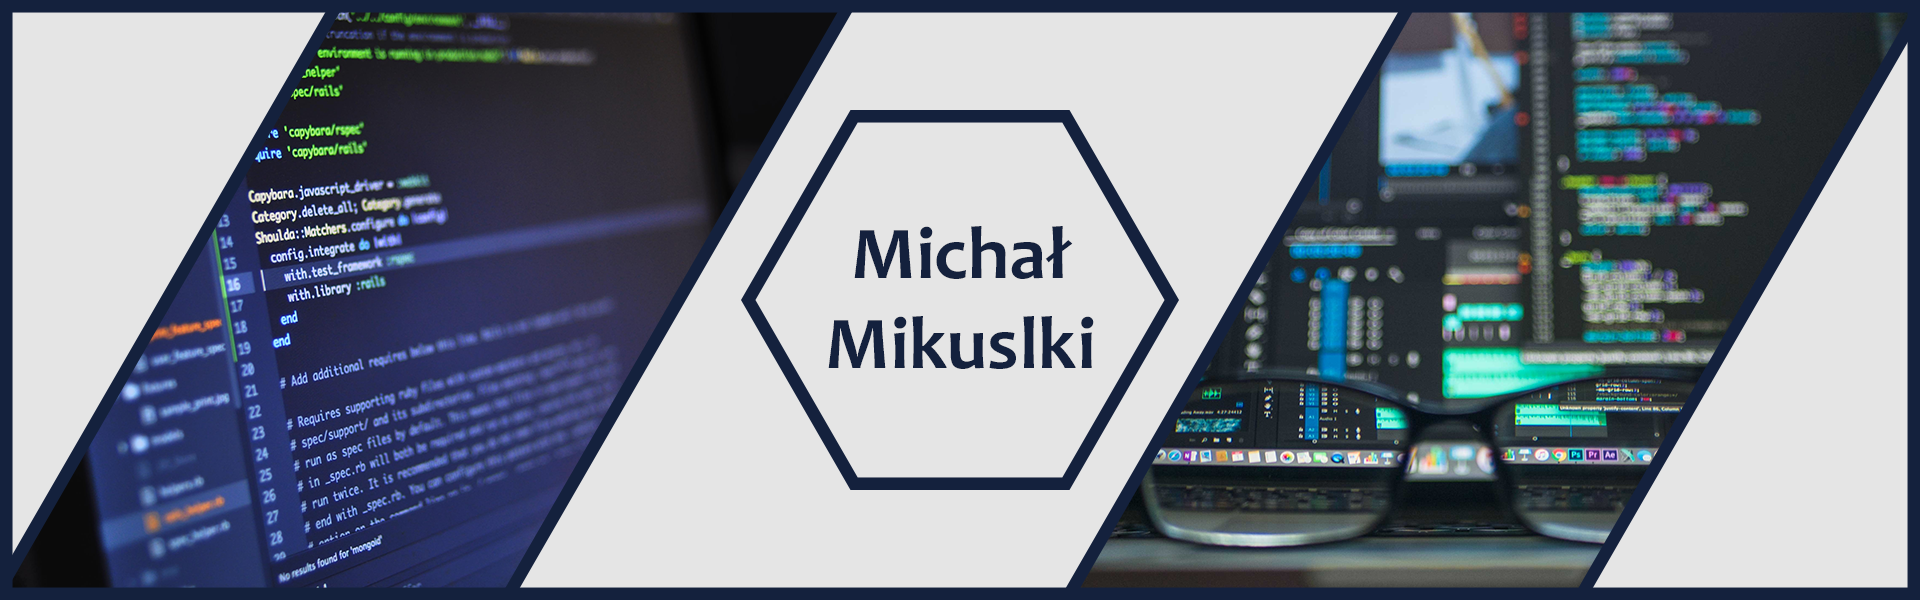
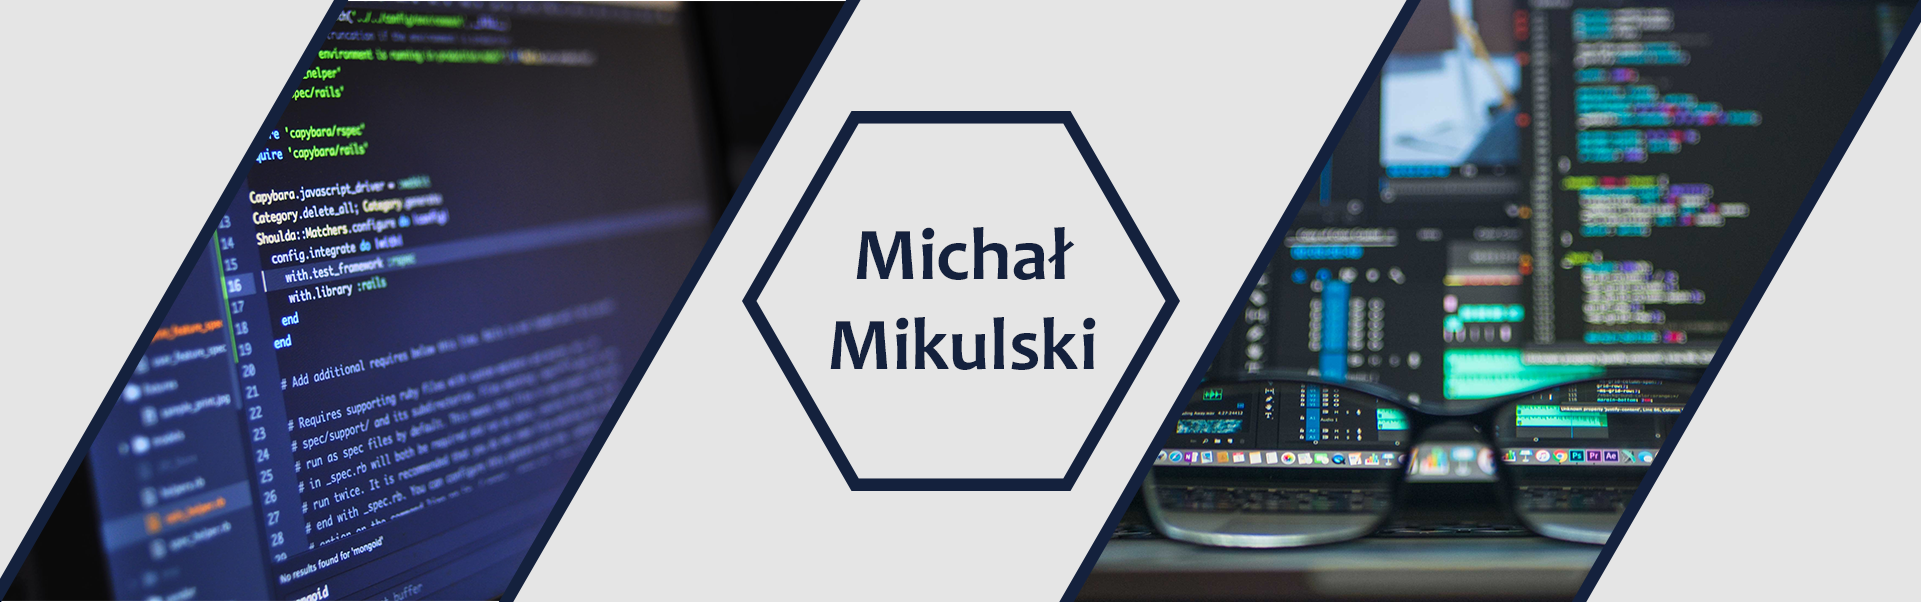
css

diff --git a/src/index.css b/src/index.css
@@ -19,7 +19,7 @@ code {
   color:#e5e5e5;
 }
 .container{
-  background-color: #e5e5e5;
+  background-color: #d6d6d6;
 }
 .header{
   display: inline-block;
@@ -54,7 +54,7 @@ code {
   height:450px;
   margin:0 auto;
   margin-bottom: 220px;
-  background-color: #d6d6d6;
+  background-color: #e5e5e5;
   border-radius: 10px;
   padding:40px;
   margin-top: 20px;
@@ -75,7 +75,7 @@ code {
   height:450px;
   margin:0 auto;
   margin-bottom: 220px;
-  background-color:  #d6d6d6;
+  background-color:  #e5e5e5;
   border-radius: 10px;
   padding:40px;
   margin-top: 20px;
@@ -99,7 +99,7 @@ code {
   height:450px;
   margin:0 auto;
   margin-bottom: 220px;
-  background-color:   #d6d6d6;
+  background-color:   #e5e5e5;
   border-radius: 10px;
   padding:40px;
   margin-top: 20px;
@@ -121,7 +121,7 @@ code {
   height:450px;
   margin:0 auto;
   margin-bottom: 220px;
-  background-color:   #d6d6d6;
+  background-color:   #e5e5e5;
   border-radius: 10px;
   padding:40px;
   margin-top: 20px;
@@ -145,7 +145,7 @@ code {
   height:400px;
   margin:0 auto;
   margin-bottom: 220px;
-  background-color:   #d6d6d6;
+  background-color:   #e5e5e5;
   border-radius: 10px;
   padding:40px;
   margin-top: 20px;
@@ -167,7 +167,7 @@ code {
   height:400px;
   margin:0 auto;
   margin-bottom: 220px;
-  background-color:   #d6d6d6;
+  background-color:   #e5e5e5;
   border-radius: 10px;
   padding:40px;
   margin-top: 20px;
@@ -685,7 +685,7 @@ code {
 .box{
   width:100%;
   height:calc(100vh - 140px);
-  background-color: #e5e5e5;
+  background-color: #d6d6d6;
   -webkit-touch-callout: none;
   -webkit-user-select: none;
   -khtml-user-select: none;
@@ -695,7 +695,7 @@ code {
   background-color: #4e4e4e;
 }
 .home-container{
-  background-color: #e5e5e5;
+  background-color: #d6d6d6;
 }
 .navbar{
   background-color: #26282E;
@@ -861,5 +861,5 @@ code {
   }
 }
 .btn-outline-dark, .btn-outline-dark:hover, .btn-outline-dark:active, .btn-outline-dark:visited {
-  background-color: #d6d6d6 !important;
+  background-color: #e5e5e5 !important;
 }
